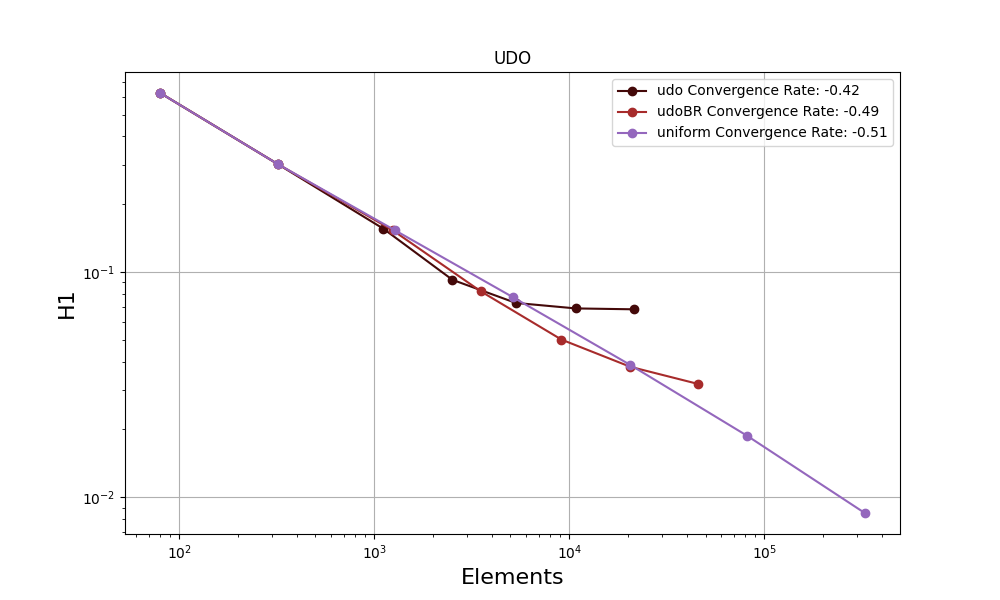
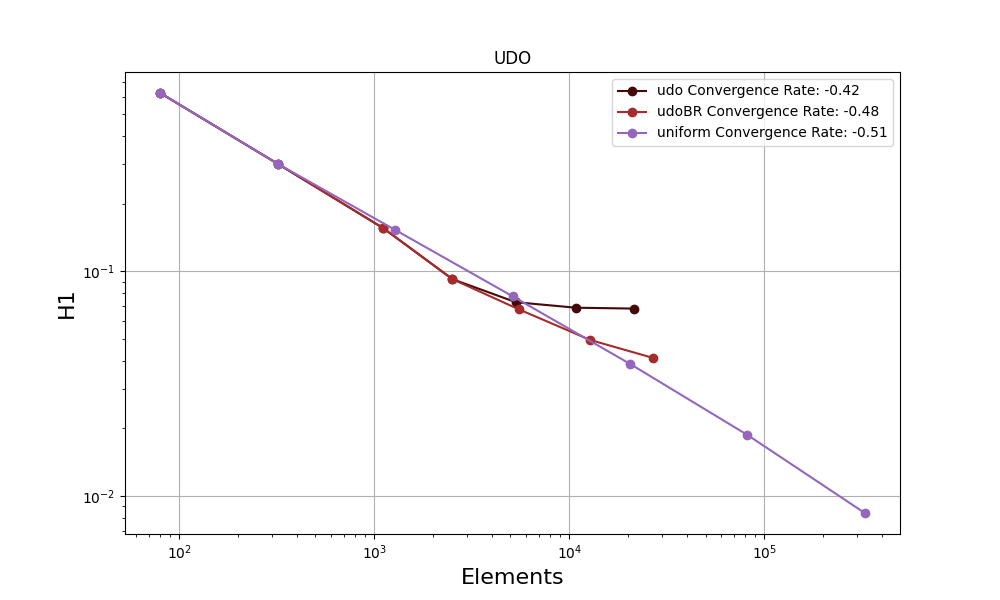
rework convergence test scripts

diff --git a/paper/ConvergenceResults/Convergence.py b/paper/ConvergenceResults/Convergence.py
@@ -14,7 +14,7 @@ from animate import adapt
 vcesHybridVertexCounts = [413,623,2417,3221,12737,15837, 113]
 vcesAdaptVertexCounts = [194,436,842,1644,3216,6302, 113]
 
-methodlist = ['vces', 'udo', 'metricIso', 'vcesUnif', 'udoUnif', 'metricIsoHess', 'vcesBR', 'udoBR', 'uniform']
+methodlist = ['vcd', 'udo', 'metricIso', 'vcdUnif', 'udoUnif', 'metricIsoHess', 'vcdBR', 'udoBR', 'uniform']
 
 if __name__ == "__main__":
     parser = argparse.ArgumentParser(
@@ -45,7 +45,7 @@ if __name__ == "__main__":
     exactV = FunctionSpace(exactMesh, "CG", 1)
 
     exactPsi = problem_instance.getObstacle(exactV)
-    exactElementIndicator = amr_instance.elemactive(exactU, exactPsi)
+    exactElementIndicator = amr_instance._elemactive(exactU, exactPsi)
     _, exactFreeBoundaryEdges = amr_instance.freeboundarygraph(
         exactU, exactPsi)
 
@@ -61,7 +61,7 @@ if __name__ == "__main__":
         nv, ne, hmin, hmax = amr_instance.meshsizes(mesh)
 
         # Compute Jaccard index
-        solElementIndicator = amr_instance.elemactive(u, lb)
+        solElementIndicator = amr_instance._elemactive(u, lb)
         JError = amr_instance.jaccard(
             solElementIndicator, exactElementIndicator)
 
@@ -85,9 +85,9 @@ if __name__ == "__main__":
         
         
         # Big switch style statement for methods
-        if method == methodlist[0]:  # vces
+        if method == methodlist[0]:  # vcd
             mtic = time.perf_counter()
-            mark = amr_instance.vcesmark(mesh, u, lb, bracket=[.2, .8])
+            mark = amr_instance.vcdmark(u, lb, bracket=[.2, .8])
             mtoc = time.perf_counter()
             rtic = time.perf_counter()
             mesh = amr_instance.refinemarkedelements(mesh, mark)
@@ -95,7 +95,7 @@ if __name__ == "__main__":
 
         elif method == methodlist[1]:  # udo
             mtic = time.perf_counter()
-            mark = amr_instance.udomark(mesh, u, lb, n=3)
+            mark = amr_instance.udomark(u, lb, n=3)
             mtoc = time.perf_counter()
             rtic = time.perf_counter()
             mesh = amr_instance.refinemarkedelements(mesh, mark)
@@ -104,13 +104,13 @@ if __name__ == "__main__":
         elif method == methodlist[2]:  # metric isotropic only
             mtic = time.perf_counter()
             amr_instance.setmetricparameters(target_complexity=vcesAdaptVertexCounts[i])# Corresponds to only freeboundary metric applied
-            VImetric = amr_instance.metricrefine(mesh, u, lb, weights=[0, 1], hessian = False)
+            VImetric = amr_instance.adaptaveragedmetric(mesh, u, lb, weights = [0, 1], hessian = False, metric = True)
             mtoc = time.perf_counter()
             rtic = time.perf_counter()
             mesh = adapt(mesh, VImetric)
             rtoc = time.perf_counter()
 
-        elif method == methodlist[3]:  # vces + uniform
+        elif method == methodlist[3]:  # vcd + uniform
             CG1, DG0 = amr_instance.spaces(mesh)
             mtic = time.perf_counter()
             h = max(mesh.cell_sizes.dat.data)
@@ -124,7 +124,7 @@ if __name__ == "__main__":
                 rtoc = time.perf_counter()
 
             else:  # adapt
-                mark = amr_instance.vcesmark(mesh, u, lb, bracket=[.2, .8])
+                mark = amr_instance.vcdmark( u, lb, bracket=[.2, .8])
                 mtoc = time.perf_counter()
                 rtic = time.perf_counter()
                 mesh = amr_instance.refinemarkedelements(mesh, mark)
@@ -144,7 +144,7 @@ if __name__ == "__main__":
                 rtoc = time.perf_counter()
 
             else:  # adapt
-                mark = amr_instance.udomark(mesh, u, lb, n=3)
+                mark = amr_instance.udomark( u, lb, n=3)
                 mtoc = time.perf_counter()
                 rtic = time.perf_counter()
                 mesh = amr_instance.refinemarkedelements(mesh, mark)
@@ -153,19 +153,18 @@ if __name__ == "__main__":
         elif method == methodlist[5]:  # metric isotropic + hessian
             mtic = time.perf_counter()
             amr_instance.setmetricparameters(target_complexity=vcesHybridVertexCounts[i])# Corresponds to equal averaging of freeboundary and hessian based metrics.
-            VImetric = amr_instance.metricrefine(mesh, u, lb, weights=[.5, .5])
+            VImetric = amr_instance.adaptaveragedmetric(mesh, u, lb, weights = [.5, .5], hessian = True, metric = True)
             mtoc = time.perf_counter()
             rtic = time.perf_counter()
             mesh = adapt(mesh, VImetric)
             rtoc = time.perf_counter()
             
-        elif method == methodlist[6]:  # vces + br on inactive set
+        elif method == methodlist[6]:  # vcd + br on inactive set
             mtic = time.perf_counter()
-            markFB = amr_instance.vcesmark(mesh, u, lb, bracket=[.2, .8])
-            resUFL = Constant(0.0) + div(grad(u))
-            markBR = amr_instance.BRinactivemark(
-                mesh, u, lb, resUFL, .5, markFB)
-            mark = amr_instance.union(markFB, markBR)
+            markFB = amr_instance.vcdmark(u, lb, bracket=[.2, .8])
+            resUFL = -div(grad(u))
+            (markBR, _, _) = amr_instance.brinactivemark(u, lb, resUFL, theta=.5)
+            mark = amr_instance.unionmarks(markFB, markBR)
             mtoc = time.perf_counter()
             rtic = time.perf_counter()
             mesh = amr_instance.refinemarkedelements(mesh, mark)
@@ -173,11 +172,10 @@ if __name__ == "__main__":
 
         elif method == methodlist[7]:  # udo + br on inactive set
             mtic = time.perf_counter()
-            markFB = amr_instance.udomark(mesh, u, lb, n=3)
-            resUFL = Constant(0.0) + div(grad(u))
-            markBR = amr_instance.BRinactivemark(
-                mesh, u, lb, resUFL, .5, markFB)
-            mark = amr_instance.union(markFB, markBR)
+            markFB = amr_instance.udomark(u, lb, n=3)
+            resUFL = -div(grad(u))
+            (markBR, _, _) = amr_instance.brinactivemark(u, lb, resUFL, theta=.5)
+            mark = amr_instance.unionmarks(markFB, markBR)
             mtoc = time.perf_counter()
             rtic = time.perf_counter()
             mesh = amr_instance.refinemarkedelements(mesh, mark)

diff --git a/paper/ConvergenceResults/GeneratePlots.py b/paper/ConvergenceResults/GeneratePlots.py
@@ -86,7 +86,7 @@ def create_multiindex_dataframe(result_dir, methodlist):
 
 if __name__ == "__main__":
     #os.chdir("/home/stefano/Desktop/VI-AMR/NumericalResults/ConvergenceResults")
-    methodlist = ['vces', 'udo', 'metricIso', 'vcesUnif', 'udoUnif', 'metricIsoHess', 'vcesBR', 'udoBR', 'uniform']
+    methodlist = ['vcd', 'udo', 'metricIso', 'vcdUnif', 'udoUnif', 'metricIsoHess', 'vcdBR', 'udoBR', 'uniform']
 
 
     # flag for running convergence script
@@ -98,7 +98,7 @@ if __name__ == "__main__":
                         help='Run convergence script for all amr_methods and refinements.')
     args = parser.parse_args()
 
-    methodlist = ['vces', 'udo', 'metricIso', 'vcesUnif','udoUnif', 'metricIsoHess', 'vcesBR', 'udoBR', 'uniform']
+    methodlist = ['vcd', 'udo', 'metricIso', 'vcdUnif','udoUnif', 'metricIsoHess', 'vcdBR', 'udoBR', 'uniform']
     
     if args.lshaped:
         script_path = "ConvergenceLShaped.py"
@@ -143,10 +143,10 @@ if __name__ == "__main__":
         'metricIso': '#317256',     
         'metricIsoHess': '#52bf90', 
         
-        # Group 2: vces* methods (blues)
-        'vces': '#0021f3',          
-        'vcesBR': '#0006b1',        
-        'vcesUnif': '#05014a',      
+        # Group 2: vcd* methods (blues)
+        'vcd': '#0021f3',          
+        'vcdBR': '#0006b1',        
+        'vcdUnif': '#05014a',      
         
         # Group 3: udo* methods (reds)
         'udo': '#440909',           
@@ -167,26 +167,26 @@ if __name__ == "__main__":
     plt, file_title = getPlot(Convdf, ['udo', 'udoBR', 'uniform'] , 'Elements', 'H1', 'UDO', plottype='loglog', methodcolors=methodcolors, legend = True)
     plt.savefig(os.path.join(plot_dir, file_title))
 
-    plt, file_title = getPlot(Convdf, ['vces', 'vcesBR', 'uniform'] , 'Elements', 'H1', 'VCES', plottype='loglog', methodcolors=methodcolors, legend = True)
+    plt, file_title = getPlot(Convdf, ['vcd', 'vcdBR', 'uniform'] , 'Elements', 'H1', 'VCD', plottype='loglog', methodcolors=methodcolors, legend = True)
     plt.savefig(os.path.join(plot_dir, file_title))
     plt, file_title = getPlot(Convdf, ['metricIso', 'metricIsoHess', 'uniform'] , 'Elements', 'H1', 'Metric', plottype='loglog', methodcolors=methodcolors, legend = True)
     plt.savefig(os.path.join(plot_dir, file_title))
     plt, file_title = getPlot(Convdf, ['udo', 'udoBR', 'uniform'] , 'Elements', 'Jaccard', 'UDO', plottype='loglog', methodcolors=methodcolors, legend = True)
     plt.savefig(os.path.join(plot_dir, file_title))
-    plt, file_title = getPlot(Convdf, ['vces', 'vcesBR', 'uniform'] , 'Elements', 'Jaccard', 'VCES', plottype='loglog', methodcolors=methodcolors, legend = True)
+    plt, file_title = getPlot(Convdf, ['vcd', 'vcdBR', 'uniform'] , 'Elements', 'Jaccard', 'VCD', plottype='loglog', methodcolors=methodcolors, legend = True)
     plt.savefig(os.path.join(plot_dir, file_title))
     plt, file_title = getPlot(Convdf, ['metricIso', 'metricIsoHess', 'uniform'] , 'Elements', 'Jaccard', 'Metric', plottype='loglog', methodcolors=methodcolors, legend = True)
     plt.savefig(os.path.join(plot_dir, file_title))
-    plt, file_title = getPlot(Convdf.iloc[1:], ['udo', 'vces', 'metricIso'] , 'Elements', 'Jaccard', 'Comparison of Best Methods WRT Jaccard', plottype='loglog', methodcolors=methodcolors, legend = True)
+    plt, file_title = getPlot(Convdf.iloc[1:], ['udo', 'vcd', 'metricIso'] , 'Elements', 'Jaccard', 'Comparison of Best Methods WRT Jaccard', plottype='loglog', methodcolors=methodcolors, legend = True)
     plt.savefig(os.path.join(plot_dir, file_title))
-    plt, file_title = getPlot(Convdf.iloc[0:], ['udo', 'vces', 'metricIso'] , 'Elements', 'Hausdorff', 'Comparison of Best Methods WRT Hausdorff', plottype='loglog', methodcolors=methodcolors, legend = True)
+    plt, file_title = getPlot(Convdf.iloc[0:], ['udo', 'vcd', 'metricIso'] , 'Elements', 'Hausdorff', 'Comparison of Best Methods WRT Hausdorff', plottype='loglog', methodcolors=methodcolors, legend = True)
     plt.savefig(os.path.join(plot_dir, file_title))
-    plt, file_title = getPlot(Convdf, ['vcesBR', 'udoBR', 'metricIsoHess'] , 'PreMeshCompTime/Elements', 'L2', 'L2 Time Effeciency of Inactive Set Methods', plottype='loglog',methodcolors=methodcolors, legend = True)
+    plt, file_title = getPlot(Convdf, ['vcdBR', 'udoBR', 'metricIsoHess'] , 'PreMeshCompTime/Elements', 'L2', 'L2 Time Effeciency of Inactive Set Methods', plottype='loglog',methodcolors=methodcolors, legend = True)
     plt.savefig(os.path.join(plot_dir, file_title))
-    plt, file_title = getPlot(Convdf.iloc[0:], ['vces','udo' ,'metricIso'] , 'PreMeshCompTime/Elements', 'Hausdorff', 'Hausdorff Time Effeciency of Inactive Set Methods', plottype='loglog',methodcolors=methodcolors, legend = True)
+    plt, file_title = getPlot(Convdf.iloc[0:], ['vcd','udo' ,'metricIso'] , 'PreMeshCompTime/Elements', 'Hausdorff', 'Hausdorff Time Effeciency of Inactive Set Methods', plottype='loglog',methodcolors=methodcolors, legend = True)
     plt.savefig(os.path.join(plot_dir, file_title))
-    plt, file_title = getPlot(Convdf.iloc[0:], ['vces','udo' ,'metricIso'] , 'PreMeshCompTime/Elements', 'Jaccard', 'Jaccard Time Effeciency of Inactive Set Methods', plottype='loglog',methodcolors=methodcolors, legend = True)
+    plt, file_title = getPlot(Convdf.iloc[0:], ['vcd','udo' ,'metricIso'] , 'PreMeshCompTime/Elements', 'Jaccard', 'Jaccard Time Effeciency of Inactive Set Methods', plottype='loglog',methodcolors=methodcolors, legend = True)
     plt.savefig(os.path.join(plot_dir, file_title))
-    plt, file_title = getPlot(Convdf.iloc[0:], ['vces' ,'metricIso'] , 'Elements', 'SolveTime/Elements', 'L Shaped Domain Solve Time Comparison', plottype='loglog',methodcolors=methodcolors, legend = True)
+    plt, file_title = getPlot(Convdf.iloc[0:], ['vcd' ,'metricIso'] , 'Elements', 'SolveTime/Elements', 'L Shaped Domain Solve Time Comparison', plottype='loglog',methodcolors=methodcolors, legend = True)
     plt.savefig(os.path.join(plot_dir, file_title))
     # Grid sequencing should make the solve time better for tag and refine methods?? Likely an issue with cross mesh interpolation?

diff --git a/paper/ConvergenceResults/GenerateSolution.py b/paper/ConvergenceResults/GenerateSolution.py
@@ -5,8 +5,8 @@ from viamr.utility import SphereObstacleProblem
 from viamr import VIAMR
 
 # for debugging
-import os
-os.chdir("/home/stefano/Desktop/VI-AMR/NumericalResults/ConvergenceResults")
+#import os
+#os.chdir("/home/stefano/Desktop/VI-AMR/NumericalResults/ConvergenceResults")
 
 
 problem = SphereObstacleProblem(TriHeight=.25)
@@ -22,10 +22,10 @@ for i in range(4):
         
     DG0 = FunctionSpace(ExactMesh, "DG", 0)
 
-    resUFL = Constant(0.0) + div(grad(ExactU))
-    FBmark = amr.vcesmark(ExactMesh, ExactU, lb)
-    BRmark = amr.BRinactivemark(ExactMesh, ExactU, lb, resUFL=resUFL, theta = .50, markFB=FBmark)
-    mark = amr.union(FBmark, BRmark)
+    resUFL = -div(grad(ExactU))
+    FBmark = amr.vcdmark(ExactU, lb)
+    (BRmark, _, _) = amr.brinactivemark(ExactU, lb, resUFL, theta=.5)
+    mark = amr.unionmarks(FBmark, BRmark)
     ExactMesh = amr.refinemarkedelements(ExactMesh, mark)
     
 
@@ -39,7 +39,6 @@ ExactU = Function(FunctionSpace(ExactMesh, "CG", 1)).interpolate(ExactU)
 ExactU, lb = problem.solveProblem(mesh=ExactMesh, u=ExactU, FASCD=True)
 ExactU.rename("ExactU")
 
-VTKFile("Test.pvd").write(ExactU)
 # Open issue won't run in parallel with netgen mesh: https://github.com/firedrakeproject/firedrake/issues/3783
 with CheckpointFile("ExactSolution.h5", 'w') as afile:
     afile.save_mesh(ExactMesh)

diff --git a/paper/ConvergenceResults/GenerateSolutionLShaped.py b/paper/ConvergenceResults/GenerateSolutionLShaped.py
@@ -23,15 +23,12 @@ for i in range(5):
         
     else:
         DG0 = FunctionSpace(ExactMesh, "DG", 0)
-    
-        resUFL = Constant(0.0) + div(grad(ExactU))
-        FBmark = amr.vcesmark(ExactMesh, ExactU, lb)
-        BRmark = amr.BRinactivemark(ExactMesh, ExactU, lb, resUFL=resUFL, theta = .50, markFB=FBmark)
-        mark = amr.union(FBmark, BRmark)
+        resUFL = -div(grad(ExactU))
+        FBmark = amr.vcdmark(ExactU, lb)
+        (BRmark, _, _) = amr.brinactivemark(ExactU, lb, resUFL, theta=.5)
+        mark = amr.unionmarks(FBmark, BRmark)
         ExactMesh = amr.refinemarkedelements(ExactMesh, mark)
         
-
-
 
 mh = MeshHierarchy(ExactMesh, 4)
 ExactMesh = mh[-1]
@@ -41,7 +38,6 @@ ExactU = Function(FunctionSpace(ExactMesh, "CG", 1)).interpolate(ExactU)
 ExactU, lb = problem.solveProblem(mesh=ExactMesh, u=ExactU, FASCD=True)
 ExactU.rename("ExactU")
 
-VTKFile("Test.pvd").write(ExactU)
 # Open issue won't run in parallel with netgen mesh: https://github.com/firedrakeproject/firedrake/issues/3783
 with CheckpointFile("ExactSolutionLShaped.h5", 'w') as afile:
     afile.save_mesh(ExactMesh)
